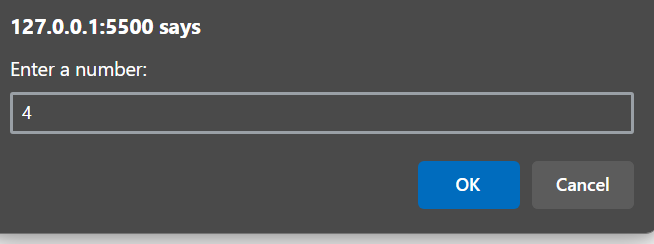
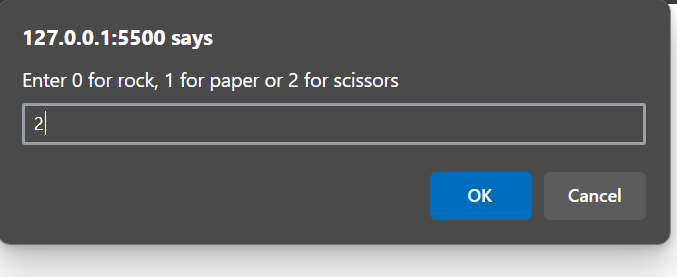
completed last JavaScript task we were given and begun the next one we were given

diff --git a/page_83_rock_paper_scissors game/script.js b/page_83_rock_paper_scissors game/script.js
@@ -1,45 +1,51 @@
 const option = ['rock', 'paper', 'scissors'];
-let i = prompt("Enter 0 for rock, 1 for paper or 2 for scissors");
-switch(i){
-    case i = 0:
-        document.write("You entered: ", option[0])
-        break;
-    case i = 1:
-        document.write("You entered: ", option[1])
-        break;
-    case i = 2:
-        document.write("You entered: ", option[2])
-        break;
-    default:
-        document.write("WROMG NUMBER.. refresh page and try again    ")
+let userinput = prompt("Enter 0 for rock, 1 for paper or 2 for scissors");
+if(userinput <= 2){
+    if(userinput == 0){
+            document.write(" You entered: ", option[0], ",\n")
+    }
+    if(userinput == 1){
+            document.write(" You entered: ", option[1], ",\n")        
+    }
+    if(userinput == 2){
+            document.write(" You entered: ", option[2], ",\n")
+    }
+
+    let comp = Math.random();
+    comp = comp *3;
+    comp = Math.floor(comp);
+    console.log(comp)
+    switch(comp){
+        case 0:
+            var compFinal = 0;
+            document.write(" computer entered: ", option[0], ",\n")
+            break;
+        case 1:
+            var compFinal = 1;
+            document.write(" computer entered: ", option[1], ",\n")
+            break;
+        case 2:
+            var compFinal = 2;
+            document.write(" computer entered: ", option[2], ",\n")
+            break;
+    }
+
+
+    if(compFinal == 0 && userinput == 1){
+        document.write("   you win :) ")
+    } else if(compFinal == 1 && userinput == 0){
+        document.write("   you Loose ")
+    }else if(compFinal == 1 && userinput == 2){
+        document.write("   you win :) ")
+    } else if(compFinal == 2 && userinput == 1){
+        document.write("   you Loose ")
+    } else if(compFinal == 2 && userinput == 0){
+        document.write("   you win :) ")
+    } else if(compFinal == 0 && userinput == 2){
+        document.write("   you Loose ")
+    } 
+    else     
+        document.write(' Same Choice...\n Refresh page and try again ')
+} else{
+    document.write("WRONG NUMBER... Refrsh page and try again")
 }
-let comp = Math.random();
-comp = comp *3;
-comp = Math.floor(comp);
-console.log(comp)
-switch(comp){
-    case 0:
-        document.write("computer entered: ", option[0])
-        break;
-    case 1:
-        document.write("computer entered: ", option[1])
-        break;
-    case 2:
-        document.write("computer entered: ", option[2])
-        break;
-}
-if(comp == 0 && i == 1){
-    document.write("you win :) with ", option[1], "aginst ", option[0])
-} else if(comp == 1 && i == 0){
-    document.write("you Loose with ", option[1], " for the computer and ", option[0], " for you")
-}else if(comp == 1 && i == 2){
-    document.write("you win :) with ", option[2], "aginst ", option[1])
-} else if(comp == 2 && i == 1){
-    document.write("you Loose with ", option[1], " for the computer and ", option[2], " for you")
-} else if(comp == 2 && i == 0){
-    document.write("you win :) with ", option[0], "aginst ", option[1])
-} else if(comp == 0 && i == 2){
-    document.write("you Loose with", option[2], " for the computer and ", option[1], " for you")
-} 
-//else     
-    // document.write('Same Choice... Refresh page and try again')

diff --git a/page_83_self-check_quize/Question_2/script.js b/page_83_self-check_quize/Question_2/script.js
@@ -1,0 +1,16 @@
+const q = 1;
+switch (q) {
+ case '1':
+ answer = "one";
+ case 1:
+ answer = 1;
+ break;
+ //output printed "this is the one" because thre is no break to the second case.
+ case 2:
+ answer = "this is the one";
+ break;
+ default:
+ answer = "not working";
+}
+console.log(answer);
+

diff --git a/page_83_self-check_quize/Question_4/script.js b/page_83_self-check_quize/Question_4/script.js
@@ -1,0 +1,10 @@
+const userNames = ["Mike", "John", "Larry"];
+const userInput = "John";
+let htmlOutput = "";
+if (userNames.indexOf(userInput) > -1) {
+ htmlOutput = "Welcome, that is a user";
+} else {
+ htmlOutput = "Denied, not a user ";
+}
+console.log(htmlOutput + ": " + userInput);
+

diff --git a/page_83_self-check_quize/Question_7/script.js b/page_83_self-check_quize/Question_7/script.js
@@ -1,0 +1,7 @@
+let val = 100;
+let message = (val > 100) ? `${val} was greater than 100` : 
+`${val} was LESS or Equal to 100`;
+console.log(message);
+let check = (val % 2) ? `Odd` : `Even`;
+check = `${val} is ${check}`;
+console.log(check);

diff --git a/page_83_self-check_quize/Question_1/script.js b/page_83_self-check_quize/Question_1/script.js
@@ -1,0 +1,15 @@
+const q = '1';
+switch (q) {
+ case '1':
+ answer = "one";
+ break;
+ case 1:
+ answer = 1;
+ break;
+ case 2:
+ answer = "this is the one";
+ break;
+ default:
+ answer = "not working";
+}
+console.log(answer);

diff --git a/page_83_self-check_quize/Question_5/script.js b/page_83_self-check_quize/Question_5/script.js
@@ -1,0 +1,15 @@
+const q = '1';
+switch (q) {
+ case '1':
+ answer = "one";
+ break;
+ case 1:
+ answer = 1;
+ break;
+ case 2:
+ answer = "this is the one";
+ break;
+ default:
+ answer = "not working";
+}
+console.log(answer);

diff --git a/page_83_self-check_quize/Question_6/script.js b/page_83_self-check_quize/Question_6/script.js
@@ -1,0 +1,9 @@
+let a = 5;
+let b = 10;
+let c = 20;
+let d = 30;
+console.log(a > b || b > a);
+console.log(a > b && b > a);
+console.log(d > b || b > a);
+console.log(d > b && b > a);
+

diff --git a/page_83_self-check_quize/Question_3/script.js b/page_83_self-check_quize/Question_3/script.js
@@ -1,0 +1,6 @@
+let login = false;
+let outputHolder = "";
+let userOkay = login ? outputHolder = "logout" : outputHolder = 
+"login";
+console.log(userOkay);
+

diff --git a/page_83_self-check_quize/Question_1/README.md b/page_83_self-check_quize/Question_1/README.md
@@ -1,0 +1,6 @@
+# Page_83_self-check_quize_guestion_1
+
+## Screenshots
+
+![code_Question_1](Sreenshots/code.png)
+![output_Question_1](Sreenshots/output.png)

diff --git a/page_83_self-check_quize/Question_2/README.md b/page_83_self-check_quize/Question_2/README.md
@@ -1,0 +1,5 @@
+# Page_83_self-check_quize_guestion_2
+
+## Screenshots
+
+![code_and_output_Question_2](Sreenshots/code_and_output.png)

diff --git a/page_83_self-check_quize/Question_3/README.md b/page_83_self-check_quize/Question_3/README.md
@@ -1,0 +1,5 @@
+# Page_83_self-check_quize_guestion_3
+
+## Screenshots
+
+![code_and_output_Question_3](Sreenshots/code_and_output.png)

diff --git a/page_83_self-check_quize/Question_4/README.md b/page_83_self-check_quize/Question_4/README.md
@@ -1,0 +1,5 @@
+# Page_83_self-check_quize_guestion_4
+
+## Screenshots
+
+![code_and_output_Question_4](Sreenshots/code_and_output.png)
